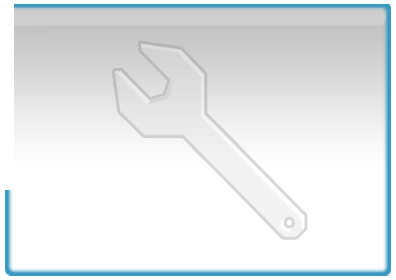
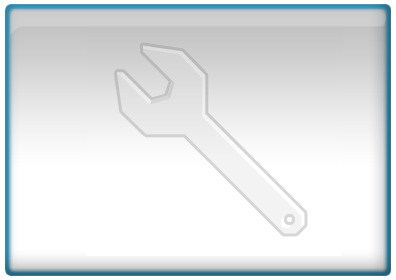
Fix white lines in settings tabs
git-svn-id: http://usbloader-gui.googlecode.com/svn/trunk@288 634f2604-25eb-11de-a8df-a7b4aff12ff9

diff --git a/source/menu.cpp b/source/menu.cpp
@@ -3434,7 +3434,7 @@ static int MenuSettings()
 	GuiImage page1dImg(&page1d);
 	GuiButton page1Btn(page1.GetWidth(), page1.GetHeight());
 	page1Btn.SetAlignment(ALIGN_CENTRE, ALIGN_TOP);
-	page1Btn.SetPosition(-202, 90);
+	page1Btn.SetPosition(-201, 90);
 	page1Btn.SetImage(&page1Img);
 	page1Btn.SetSoundOver(&btnSoundOver);
 	page1Btn.SetSoundClick(&btnClick);
@@ -3443,7 +3443,6 @@ static int MenuSettings()
 	GuiImageData ttpage(tooltip_png);
 	    GuiText ttpage1Txt("Go to Page 1", 20, (GXColor){0, 0, 0, 255});
     GuiImage ttpage1Img(&ttpage);
-	//ttpage1Img.SetWidescreen(CFG.widescreen);//////
 
     if (Settings.tooltips == TooltipsOn && THEME.showToolTip != 0)
     page1Btn.SetToolTip(&ttpage1Img,&ttpage1Txt,105, 15);
@@ -3453,7 +3452,7 @@ static int MenuSettings()
 	GuiImage page2dImg(&page2d);
 	GuiButton page2Btn(page2.GetWidth(), page2.GetHeight());
 	page2Btn.SetAlignment(ALIGN_CENTRE, ALIGN_TOP);
-	page2Btn.SetPosition(-202, 186);
+	page2Btn.SetPosition(-201, 186);
 	page2Btn.SetImage(&page2dImg);
 	page2Btn.SetSoundOver(&btnSoundOver);
 	page2Btn.SetSoundClick(&btnClick);
@@ -3461,7 +3460,6 @@ static int MenuSettings()
 
     GuiText ttpage2Txt("Go to Page 2", 20, (GXColor){0, 0, 0, 255});
     GuiImage ttpage2Img(&ttpage);
-	//ttpage2Img.SetWidescreen(CFG.widescreen);//////
 
     if (Settings.tooltips == TooltipsOn && THEME.showToolTip != 0)
     page2Btn.SetToolTip(&ttpage2Img,&ttpage2Txt,105,0);
